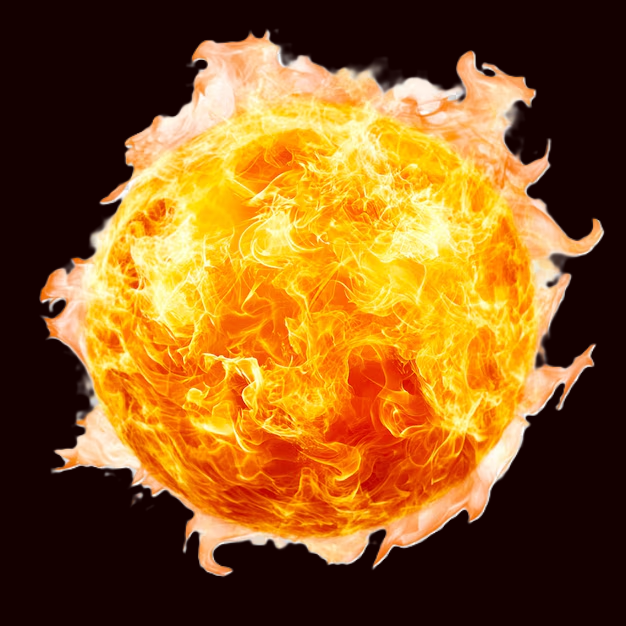
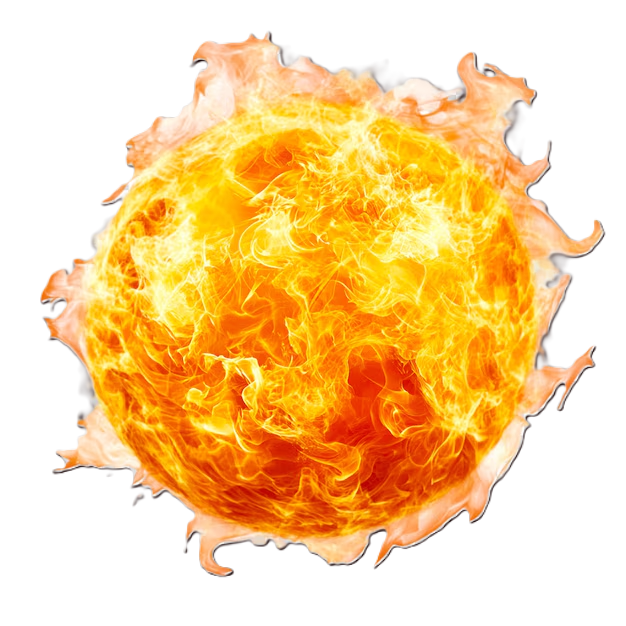
updating images

diff --git a/PyFoot.py b/PyFoot.py
@@ -29,9 +29,9 @@ pygame.display.set_caption("Main Menu")
 
 def run_game(difficulty):
     # Player and ball creation
-    player = Player(Vector2(BW + 50, SCREEN_HEIGHT), Vector2(0,0), 50, 100)
+    player = Player(Vector2(BW + 50, SCREEN_HEIGHT), Vector2(0,0), 100, 175)
     player_score = 0
-    ball = Ball(Vector2(SCREEN_WIDTH/2, SCREEN_HEIGHT/2), Vector2(200,-300), 30)
+    ball = Ball(Vector2(SCREEN_WIDTH/2, SCREEN_HEIGHT/2), Vector2(200,-300), 50)
     
     starting_time = pygame.time.get_ticks()
     active_powerups = []
@@ -39,11 +39,11 @@ def run_game(difficulty):
 
     # Bot creation
     if difficulty == "Easy":
-            level = EasyBot(Vector2(SCREEN_WIDTH - BW - 150, SCREEN_HEIGHT), Vector2(0,0), 50, 100, player, ball)
+            level = EasyBot(Vector2(SCREEN_WIDTH - BW - 150, SCREEN_HEIGHT), Vector2(0,0), 100, 175, player, ball)
     if difficulty == "Medium":
-            level = MediumBot(Vector2(SCREEN_WIDTH - BW - 150, SCREEN_HEIGHT), Vector2(0,0), 50, 100, player, ball)
+            level = MediumBot(Vector2(SCREEN_WIDTH - BW - 150, SCREEN_HEIGHT), Vector2(0,0), 100, 175, player, ball)
     if difficulty == "Hard":
-            level = HardBot(Vector2(SCREEN_WIDTH - BW - 150, SCREEN_HEIGHT), Vector2(0,0), 50, 100, player, ball, starting_time)
+            level = HardBot(Vector2(SCREEN_WIDTH - BW - 150, SCREEN_HEIGHT), Vector2(0,0), 100, 175, player, ball, starting_time)
     bot_score = 0
 
     # Game loop       

diff --git a/base_classes.py b/base_classes.py
@@ -313,7 +313,7 @@ class Player(Character):
         
         self.controls = controls
         super().__init__(pos, velocity, height, width, **kwargs)
-        self.image = pygame.image.load("player.png")
+        self.image = pygame.image.load("car.png")
         self.image = pygame.transform.scale(self.image, (width, height))
 
     def _handle_inputs(self, dt, field):
@@ -356,7 +356,7 @@ class Bot(Character):
         self.player = player
         self.ball: "Ball" = ball
         super().__init__(pos, velocity, height, width, **kwargs)
-        self.image = pygame.image.load("bot.png")
+        self.image = pygame.image.load("race_car.png")
         self.image = pygame.transform.scale(self.image, (width, height))
 
 
